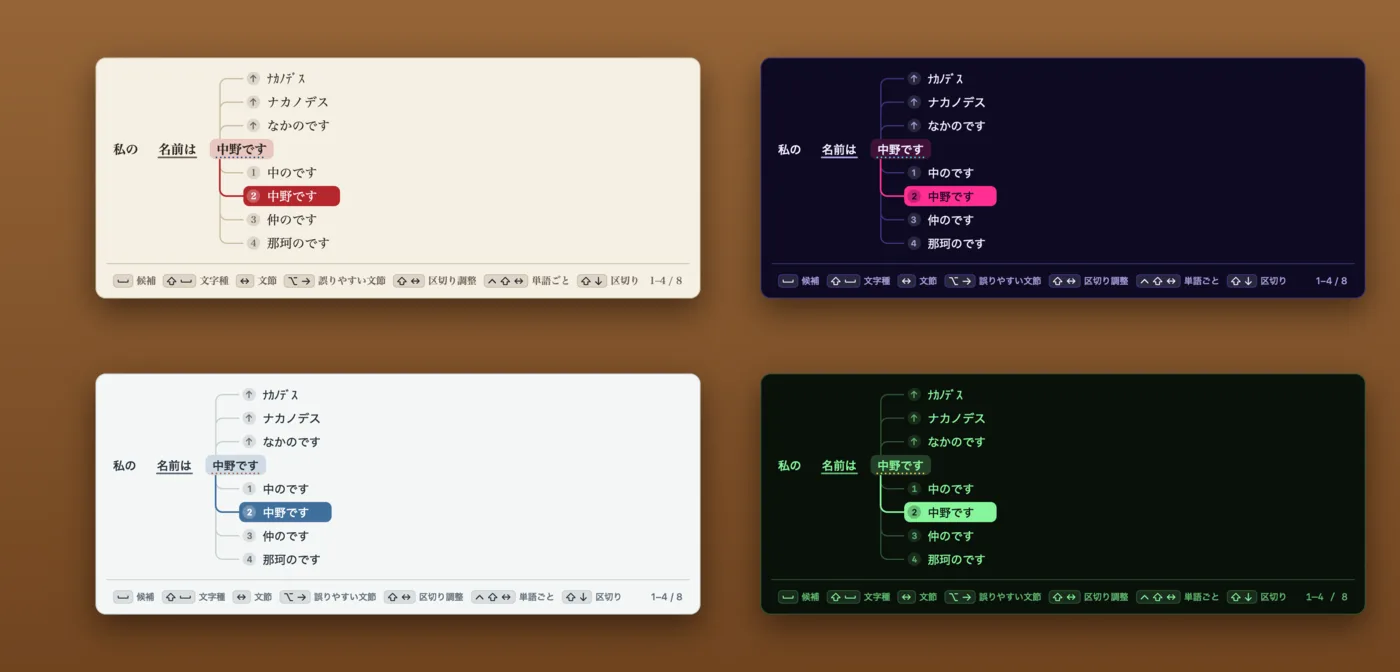
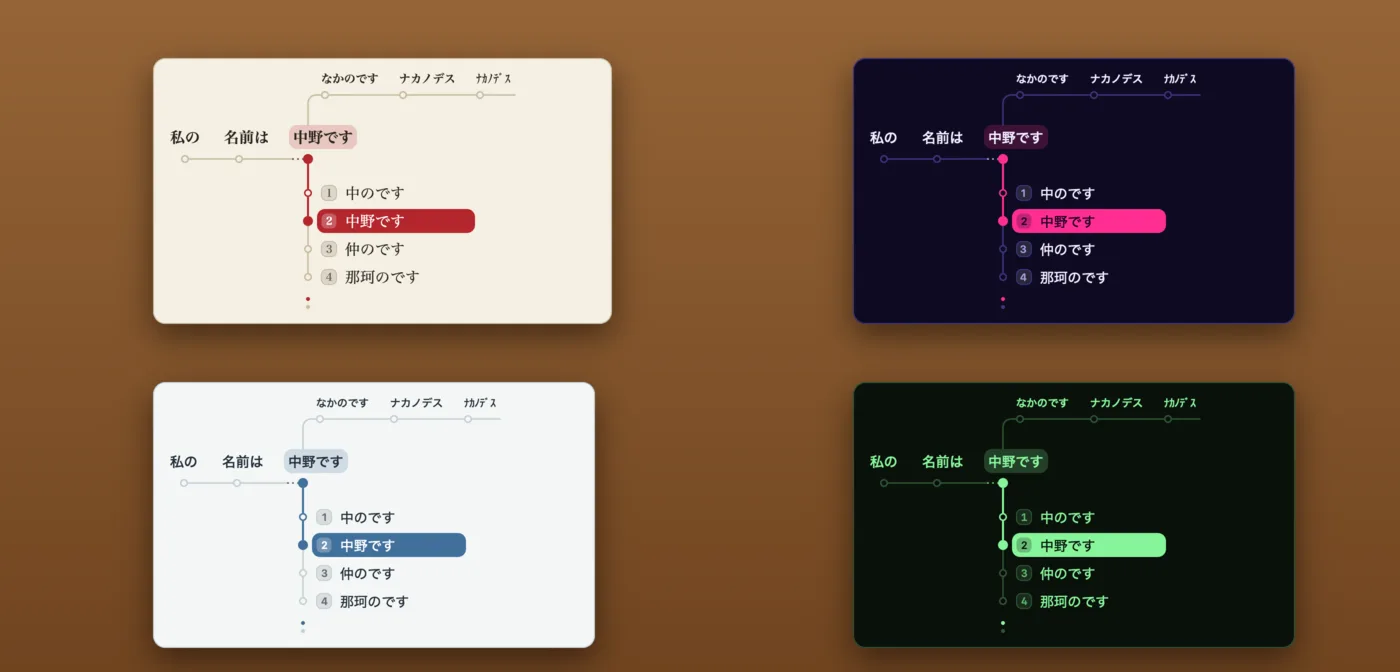
docs(site): 公式サイトの画像を新しい分岐図の見た目で作り直す

diff --git a/apps/macos/Hajime/App/SnapshotRenderer.swift b/apps/macos/Hajime/App/SnapshotRenderer.swift
@@ -48,6 +48,11 @@ enum SnapshotRenderer {
                     render(latticeView(panel, theme: look.theme, appearance: appearance), name: "branch-station\(suffix)-\(look.name)", to: output,
                            appearance: appearance)
                 }
+                // 先の枝を，キーの案内を押し続けているあいだだけ出す設定(既定)で．公式サイトのトップの画像に使う
+                var quietStations = stationLattice(current: nil, inside: false)
+                quietStations.hintsOnHold = true
+                render(latticeView(quietStations, theme: look.theme, appearance: appearance), name: "branch-station-hold-\(look.name)", to: output,
+                       appearance: appearance)
                 // 矢印キーで木をたどっていて，幹の上(文節)にいるところ．ページの位置は縦の線の下の点
                 render(latticeView(trunkLattice(), theme: look.theme, appearance: appearance), name: "branch-trunk-\(look.name)", to: output,
                        appearance: appearance)

diff --git a/apps/docs-site/content/_index.md b/apps/docs-site/content/_index.md
@@ -38,7 +38,7 @@ layout: hextra-home
 </div>
 
 <figure class="hajime-showcase">
-  <img src="images/hero.webp" alt="テキストエディットで「写真を撮る」と入力し，分岐図の候補の「撮る」の横に，意味・使い方の例・同音語が表示されている" width="1400" height="672" />
+  <img src="images/hero.webp" alt="テキストエディットで「写真を撮る」と入力し，分岐図の候補の「撮る」の先に，意味と使い方の例が線でつながって表示されている" width="1400" height="672" />
 </figure>
 
 {{< hajime/features title="主な機能" >}}
